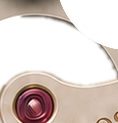
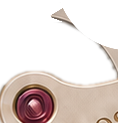
Let the crown of the GitHub wheel stand over the plate
He sent a crop: "fix this. The gear part should appear over the bg". The
wheel was being sliced flat along an arc at its top, x 555..600,
y 454..466 -- the crown simply terminated, with bare mainplate above it.

TWO CAUSES, AND THE OLDER ONE WAS UNDER THE NEWER. The crumb fix of the
previous pass had unioned "everything above the recess rim crest" into
the cut, which covers bare plate as well as bridgework: 801.7 px2 of
wheel painted out where nothing stands in front of it. Beneath that,
static-bridges' own alpha carries a bleed along the rim highlight -- a
tongue at x 546..590, y 456..465 dipping 30px west of the traced bridge
line -- and THAT is what severed the tooth tips from their wheel. The
crumbs the last pass covered were its shadow. Treating the symptom is
why the crown went with them.

So the rim-crest union is withdrawn and the bleed is repaired: rows
y 449..467 replaced by the bridge edge reconstructed from the clean runs
either side, two quadratics reproducing them to 0.02 and 0.05px, meeting
at (570.7, 460.4). Read off base.webp rather than off the alpha that was
already wrong.

PURELY SUBTRACTIVE, WHICH IS THE SAFETY ARGUMENT. Clamped to
min(new, old): 1221 pixels lost alpha, ZERO gained it. Removing alpha
cannot close the mesh and cannot newly cover a part that turns, so both
of those constraints hold by construction rather than by measurement.
Crown band opacity 71.1% -> 24.3%; sprite coverage 34.13% -> 31.70%, of
[…]

Changed region(s): [[0.0, 0.0, 0.5339, 0.1951]]

diff --git a/index.html b/index.html
@@ -659,8 +659,9 @@
                  from above, and GITHUB UNDER THE NAME BRIDGE as of 10 Aug 2026
                  -- "And then create a cutoff region for the plate below it".
                  static-plate-github.webp was re-cut for the seat and covers
-                 34.14% of the wheel -- 33.90% until the rim above the wheel was
-                 taken into the alpha on 11 Aug 2026. It covered 41.15%, which was the whole of
+                 31.70% of the wheel -- it briefly covered 34.14%, from the rim
+                 union of 11 Aug 2026 that was withdrawn the same day, and
+                 33.90% before that. It covered 41.15%, which was the whole of
                  what lay on bridgework, until the mesh with LinkedIn turned out
                  to be underneath it -- see THE HOLE USED TO BE LINKEDIN'S TIP
                  CIRCLE further down this block for the 7.17 points of tuck that
@@ -1001,18 +1002,26 @@
                      - the alpha is bridge-only by construction, so it never
                        covers the turning centre wheel. Verified: 0 px above
                        alpha 127 over the visible centre wheel
-                   WHAT IT COVERS AND WHAT IT CANNOT. 34.14% of the sprite is
-                   covered -- 33.90% of it the bridge and, since 11 Aug 2026, the
-                   0.24% of tooth tip that used to stand past the recess bay's
-                   rim; that portion now runs under both. 17.27%
+                   WHAT IT COVERS AND WHAT IT CANNOT. 31.70% of the sprite is
+                   covered, all of it the name bridge. It read 33.90% until
+                   11 Aug 2026, then 34.14% for the few hours the recess rim was
+                   unioned into the alpha, and 31.70% since that union AND the
+                   bleed under it were taken back out -- see THE RIM WAS NEVER
+                   THE THING IN FRONT below. 17.27%
                    lies on the visibly turning centre wheel and CANNOT be
                    covered by this mechanism at all. 39.69% is on bare plate and
                    is deliberately left showing, because a wheel resting on plate
-                   is what the other two do. The remaining 7.17% IS on bridgework
-                   and IS deliberately not covered: it is the crescent the mesh
-                   needs, and it was covered until 10 Aug 2026. SO THE CUT TAKES
-                   FOUR FIFTHS OF WHAT WAS WRONG -- 33.90 of the 42.26% that lies
-                   on bridgework -- while a sixth of the wheel still reads as
+                   is what the other two do. What is left uncovered and lies
+                   under static-bridges' alpha is 10.56%, and it is deliberate:
+                   7.17 is the crescent the mesh needs, covered until
+                   10 Aug 2026, and 0.49 is the crown de-dilation of
+                   11 Aug 2026. The rest of the gap is that 42.26% was measured
+                   against static-bridges' alpha INCLUDING the rim bleed, which
+                   is not bridge at all -- the bleed is worth 1.70 points on its
+                   own, so real bridgework is nearer 40.6%.
+                   SO THE CUT TAKES THREE QUARTERS OF WHAT WAS WRONG -- 31.70 of
+                   the 42.26% that lies
+                   under that alpha -- while a sixth of the wheel still reads as
                    lying on top of a moving part. That residue is a property of
                    the seat, not of the cut, and only a move can spend it.
                    CHECKED BY EYE IN REAL CHROME, because a cut is right or wrong
@@ -1216,7 +1225,11 @@
                    maximum channel difference of 0. Box is x 526..644,
                    y 446..569 of the render's 1254px
                    space, 118x123; the alpha is the rig's own static-bridges
-                   alpha placed in the same space, minus a disc of radius 73.50
+                   alpha placed in the same space -- with rows y 449..467
+                   reconstructed, because that sprite's own trace bleeds along
+                   the recess rim there and the bleed was severing the wheel's
+                   crown; see THE RIM WAS NEVER THE THING IN FRONT below --
+                   minus a disc of radius 73.50
                    centred on the LinkedIn wheel, feathered so the teeth pass
                    under a soft edge rather than a stair. Taking the alpha from
                    the bridge's own cut rather than re-tracing it is what
@@ -1272,17 +1285,89 @@
                    the approach and dives back under it a tooth-and-a-rim later.
                    Everything else is untouched: the traced bridge edge is the
                    same edge, byte for byte. Outside the disc this alpha IS
-                   rig/static-bridges' own alpha, 11444 pixels equal to the byte,
-                   with no resampling anywhere -- that sprite is pinned at
+                   rig/static-bridges' own alpha, 11444 pixels equal to the byte
+                   -- true of every row but y 449..467, which were reconstructed
+                   on 11 Aug 2026 --
+                   with no resampling anywhere; that sprite is pinned at
                    (519, 245) and this box cut at (526, 446), both in the same
                    1254 space, so the overlap is a straight slice. The RGB is
-                   still base.webp's own: max channel difference 0 over all 7357
-                   pixels with alpha above zero.
+                   still base.webp's own: max channel difference 0 over all 6218
+                   pixels with alpha above zero (7357 before the crown was given
+                   back on 11 Aug 2026).
 
-                   THE CRUMBS ABOVE THE RIM WERE NOT SCENERY THAT PREDATED THIS
-                   CUT, THEY WERE THIS CUT FALLING SHORT, AND THEY ARE CLOSED.
-                   "fix this messed up region" -- 11 Aug 2026, sent as a
-                   magnified crop of exactly this strip. An earlier revision of
+                   THE RIM WAS NEVER THE THING IN FRONT, AND THE UNION THAT
+                   TREATED IT AS IF IT WERE HAS BEEN WITHDRAWN.
+                   "fix this. The gear part should appear over the bg"
+                   -- 11 Aug 2026, sent as a magnified crop of the top of this
+                   wheel, gold against the grey plate with the gold cut off.
+                   He is describing the crown of the GitHub wheel, x 555..600,
+                   y 454..466, which the cut was erasing.
+                   WHAT IS ACTUALLY IN FRONT OF THE WHEEL THERE IS NOTHING. Read
+                   off base.webp rather than off the alpha: the arc across the
+                   top of this box is the raised rim of the recess bay the
+                   movement's centre wheel turns in (rig.json, centre (560, 552),
+                   r_out 87, so the bay's north wall crests at y 459..466), and
+                   NORTH OF THAT CREST THE SURFACE IS BARE MAINPLATE -- flat,
+                   featureless, no bridge, no arm, no jewel, for the whole width
+                   of the box. Scanned across it at y 440..455 the base runs a
+                   single smooth gradient from luminance 103 to 185 with no step
+                   anywhere; the first hard edge in this column range is the name
+                   bridge's bright chamfer at x 600 and y 470, well below and
+                   east of the crown. A wheel above the mainplate and below the
+                   bridges -- which is what the other two wheels are, and what
+                   this one is everywhere else -- shows its teeth there.
+                   SO THE TWO ADDITIONS OF 11 AUG 2026 WERE BOTH OVER-COVER, and
+                   BOTH ARE REVERSED. The first is described below: the alpha was
+                   unioned with everything above the rim crest, 801.7 px^2, to
+                   close four detached tooth tips. The second was older and
+                   bigger: static-bridges' own alpha carries a BLEED along the
+                   rim's highlight -- a tongue x 546..~590, y 456..465, whose
+                   edge dips 30 px west of the traced bridge line and comes back,
+                   ending in flat synthetic edges -- and that tongue, not the
+                   union, is what severed the tips from the wheel in the first
+                   place. The crumbs were the tongue's shadow. Covering more
+                   above them treated the symptom and erased the crown; removing
+                   the tongue removes the cause and the crown comes back whole.
+                   WHAT THE ALPHA IS NOW. static-bridges' alpha as before, with
+                   rows y 449..467 replaced by the bridge edge reconstructed
+                   across the bleed, then the r 73.50 mesh disc punched through.
+                   The edge is measured as (644 - row coverage sum), which is
+                   subpixel and needs no threshold; two quadratics fitted to the
+                   clean runs y 438..454 and y 468..485 reproduce those rows to
+                   0.02 and 0.05 px, and the reconstruction is their max, so the
+                   bridge's corner is where the two branches cross, (570.7, 460.4).
+                   Feathered by a smoothstep over 1.0 px as the rest of it is.
+                   PLUS 7.0 PX OF DE-DILATION AT THE CROWN, AND THAT PART IS A
+                   JUDGEMENT CALL, NOT A MEASUREMENT. Over rows y 449..462 the
+                   reconstructed edge is moved 7.0 px east, tapered to 0 over the
+                   last three rows at each end. Reason: at the very apex the
+                   wheel's rim (r 49.5) does not reach above y 458.7, so up there
+                   the sprite is loose tooth tips with nothing joining them, and
+                   an edge grazing that band detaches one. Measured live in
+                   Chrome, the largest detached island runs 11 device px^2 with
+                   no shift, 9 at 5.0 px and 4..5 at 7.0 -- the same size as the
+                   strays the shipped file already had. THE COST IS REAL: the
+                   trace is dilated into the bridge's cast shadow by about 1.5..2
+                   px measured normal to the edge (horizontally 7.6 at y 466,
+                   5.5 at 470, 2.7 at 482, against the bright chamfer found by
+                   max gradient on base.webp), which at the crown's edge slope
+                   is about 3.5 px horizontally -- so 7.0 spends roughly 3.5 px
+                   more than the dilation it is undoing, and about 0.49% of the
+                   sprite now draws over the bridge's edge chamfer instead of
+                   under it. That is a low-contrast boundary where bridge and
+                   plate are the same brightness; a floating speck is not. IF A
+                   LATER PASS WANTS THE STRICTLY HONEST EDGE, use 3.5 and accept
+                   a 9..11 device px^2 crumb at the apex.
+                   THE CHANGE IS PURELY SUBTRACTIVE, WHICH IS WHY IT CANNOT
+                   FREEZE ANYTHING. The new alpha is clamped to min(new, old) per
+                   pixel: 1028.0 px^2 removed, 0.0 added, so no pixel of a
+                   turning part that was uncovered is now covered. 821.1 px^2 of
+                   the removal was never bridgework at all (the union plus the
+                   bleed) and 206.9 px^2 is the crown de-dilation.
+                   THE RECORD OF THE WITHDRAWN UNION FOLLOWS, because the crest
+                   measurement is the only one of that arc anywhere and would
+                   have to be redone from scratch if it is ever wanted again.
+                   An earlier revision of
                    this block said: "Two crumbs of tooth tip show through a gap
                    in the bridge alpha at about (566, 452); they were there
                    before this change and are not from it." BOTH HALVES OF THAT
@@ -1311,9 +1396,16 @@
                    bridgework -- and it is covered anyway, because a tooth with
                    no wheel attached reads as dirt whatever the reason it is
                    visible.
-                   WHAT WAS ADDED, AND WHERE THE EDGE CAME FROM. The alpha is now
-                   the union of static-bridges' alpha with everything in the box
-                   ABOVE THE RIM CREST, and the mesh disc is punched through that
+                   THAT LAST SENTENCE IS THE MISTAKE. The tongue was correctly
+                   identified as a bleed and then treated as a fixed feature to
+                   cover up to, when it was the only thing separating the tips
+                   from the wheel. Delete the tongue and there are no crumbs and
+                   no crown to erase. This is the second time a pass in this
+                   block has reached for more alpha and been wrong about it.
+                   WHAT WAS ADDED, AND WHERE THE EDGE CAME FROM -- WITHDRAWN THE
+                   SAME DAY, KEPT FOR THE CREST FIGURES ONLY. The alpha was
+                   unioned with everything in the box
+                   ABOVE THE RIM CREST, and the mesh disc punched through that
                    union afterwards. The crest is measured off base.webp, not
                    guessed: per column, the y maximising L(y) - L(y+3) over
                    y 448..506 -- the rim's summit, where the surface drops into
@@ -1341,7 +1433,11 @@
                    from LinkedIn's centre, where teeth legitimately come and go
                    as the wheel turns. Closing it means cutting into the disc,
                    and the disc IS the mesh. LEFT, ON PURPOSE. Coverage of the
-                   sprite 33.90% -> 34.14%.
+                   sprite 33.90% -> 34.14%. ALL OF THAT WAS SUPERSEDED HOURS
+                   LATER: coverage is 31.70% now, the crown shows, and the
+                   remaining stray at the apex is 4..5 device px^2 -- the same
+                   as the shipped file's own, and it comes and goes with tooth
+                   phase, so it is measured per page load and not once.
                    THE MESH SURVIVED AND WAS CHECKED RATHER THAN ASSUMED, because
                    filling holes and opening the mesh are opposite operations on
                    one alpha channel. Punching the disc LAST, through the union,
@@ -1350,11 +1446,22 @@
                    tooth-plus-rim arc through the pitch point reads 48.00 deg
                    against the 48.0 recorded above, and the whole-tooth arc
                    59.50 against 58.5.
+                   RE-CHECKED AFTER THE CROWN WAS GIVEN BACK, 11 Aug 2026, on the
+                   same rays and the same sweep run against the old file and the
+                   new one side by side so the method cannot flatter either: disc
+                   lip median r 73.500 against 73.550, tooth-plus-rim arc 47.25
+                   deg both, whole-tooth arc 59.50 deg both. THE MESH IS
+                   BIT-FOR-BIT THE SAME OPENING; nothing this pass touched is
+                   within 60 px of the pitch point.
                    AND IT DOES NOT SHIMMER. Three live frames 1.2 s apart with
                    the animation running, differenced: under the solid body of
                    the cut, eroded 5 device px so the boundary's own antialiasing
                    is not counted, 0 of 28863 pixels change -- while 91.8% of the
                    pixels in the same box where the cut is absent do.
+                   Re-run on the new alpha over a tighter box: 1 of 10077 px at
+                   one erosion and 0 of 8937 at two, against 49.1% and 47.0% of
+                   the pixels where the cut is absent, so the single pixel is the
+                   boundary's own antialiasing and not the cut moving.
                    THE TRADE WAS THE ONE HE ASKED FOR. Reading as tucked under
                    the bridge and reading as in gear are in direct competition
                    here and the mesh wins, because he has asked for the mesh
@@ -1376,8 +1483,9 @@
                    scratch if the wheel ever went back.
                    It sits here rather than at the end of the block because it
                    only has to be after the wheel it bites, and it reaches that
-                   wheel and no other: it covers 34.14% of the GitHub sprite
-                   (33.90% before the rim went into the alpha on 11 Aug 2026,
+                   wheel and no other: it covers 31.70% of the GitHub sprite
+                   (34.14% for the few hours the rim was in the alpha on
+                   11 Aug 2026, 33.90% before that,
                    41.15% before the hole was widened on 10 Aug 2026),
                    which spans x 530.0..635.6, y 454.5..562.0, while the
                    LinkedIn sprite begins at x 592.8, the

diff --git a/src/styles.css b/src/styles.css
@@ -3355,21 +3355,34 @@ html[data-direct] .stage *:not(.cb-rig-sheen) { animation-delay: 0s !important; 
    That is the trade, and the mesh is the side it was made for. The sums,
    the before/after crops and the shimmer re-run are in index.html.
 
-   AND THE DISC IS PUNCHED LAST, WHICH IS WHY IT SURVIVED THE NEXT CUT. On
+   AND THE DISC IS PUNCHED LAST, WHICH IS WHY IT SURVIVED THE NEXT TWO CUTS. On
    11 Aug 2026 -- "fix this messed up region", sent as a magnified crop of the
    strip above the wheel -- this alpha gained the recess bay's raised RIM, where
    four detached tooth tips had been standing past the end of static-bridges'
    own trace and reading as dirt. Filling holes and opening the mesh are
    opposite operations on one alpha channel, so the order matters and is now
-   fixed: static-bridges' alpha is unioned with everything above the measured
-   rim crest, and ONLY THEN is the r 73.500 disc taken out of the union. The
-   hole is therefore exactly the disc whatever else is added -- lip re-measured
-   over 173 rays at median r 73.540 against 73.550 before, the tooth-plus-rim
-   arc at the pitch point still 48.00 deg and the whole-tooth arc 59.50.
-   Coverage 33.90% -> 34.14%. An earlier note in index.html recorded two of
-   those crumbs as pre-existing and left them; there were four, and being older
-   than the disc change never made them anything but a defect. The measurement,
-   the crest fit and the shimmer re-run are beside the markup, in index.html.
+   fixed: whatever else the alpha is, the r 73.500 disc is taken out of it LAST.
+   The hole is therefore exactly the disc whatever else is added -- lip
+   re-measured over 173 rays at median r 73.540 against 73.550 before, the
+   tooth-plus-rim arc at the pitch point still 48.00 deg and the whole-tooth arc
+   59.50 -- and it survived the reversal below unchanged as well, 73.500 against
+   73.550 with the arcs equal on both files.
+
+   THAT RIM UNION WAS WRONG AND LASTED HOURS. "fix this. The gear part should
+   appear over the bg" -- 11 Aug 2026, the same strip again. North of the bay's
+   rim crest there is nothing but bare mainplate: no bridge, no arm, no step,
+   verified off base.webp, which runs one smooth gradient across that band with
+   no edge in it. So the wheel's crown belongs on top there, and covering it
+   with a patch of plate simply erased the top of the gear. The crumbs the union
+   was chasing were not caused by the crest falling short either -- they were
+   caused by a BLEED in static-bridges' own trace along the rim highlight, a
+   tongue at x 546..590, y 456..465 that dips 30 px west of the bridge line, cuts
+   the tips off the wheel and comes back. Rows y 449..467 are now the bridge edge
+   reconstructed across that bleed, plus 7.0 px of de-dilation at the crown so a
+   tooth tip does not detach at the apex. The change is purely subtractive --
+   1028.0 px^2 removed, 0 added -- so it cannot freeze anything.
+   Coverage 33.90% -> 34.14% -> 31.70%. The measurement, the crest fit, the edge
+   reconstruction and the shimmer re-runs are beside the markup, in index.html.
 
    THE OLD JOINT IS GONE, AND SO IS THE QUESTION IT LEFT OPEN. This wheel used
    to press into the curved step that walls the recessed field -- chamfer traced
